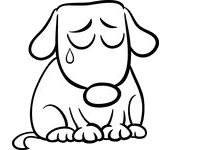
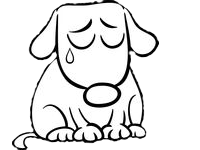
unrecoverable.html: some typos fixed. add saddy dog

diff --git a/agility/console/unrecoverable.html b/agility/console/unrecoverable.html
@@ -1,33 +1,53 @@
-<p>AgilityContest no puede ejecutarse<br/>
-    Posibles Motivos:</p>
-<ul>
-    <li> El servidor de base de datos no está activo</li>
-    <li> El firewall está bloqueando acceso al puerto local 3306</li>
+<h2>AgilityContest no puede ejecutarse</h2>
+<div style="float:right;width:30%">
+    <img src="/agility/images/sad_dog.png" alt="sad_dog"/>
+</div>
+<h3>Posibles Motivos:</h3>
+<ol>
+    <li> El servidor de base de datos no está activo
+        <ul>
+            <li>
+                En equipos lentos, o con poca memoria, el servidor de bases de datos<br/>
+                puede tardar más tiempo de lo normal en arrancar.
+            </li>
+        </ul>
+    </li>
+    <li> El firewall está bloqueando acceso al puerto local 3306.
+        <ul>
+            <li>Compruebe que en la barra de tareas no tiene ningún aviso de seguridad.</li>
+            <li>Compruebe asímismo que en el escritorio no hay ninguna ventana pidiendo<br/>
+            permiso para ejecutar algún programa.</li>
+        </ul>
+    </li>
     <li> La base de datos está corrompida. Posibles causas:<br/>
     <ul>
-        <li>Errores de tiempos de conexión ( equipo demasiado lento o firewall inspeccionando tráfico de red )</li>
-        <li>Apagado accidental del equipo con AgilityContest en funcionamiento</li>
-        <li>Carpetas del servidor de bases de datos borradas o modificadas accidentalmente</li>
+        <li>Errores de tiempos de conexión ( equipo demasiado lento o firewall inspeccionando tráfico de red ).</li>
+        <li>Apagado accidental del equipo con AgilityContest en funcionamiento.</li>
+        <li>Carpetas del servidor de bases de datos borradas o modificadas accidentalmente.</li>
+        <li>Version demasiado antigua de la base de datos que el programa no puede actualizar.</li>
     </ul>
     </li>
-</ul>
+</ol>
 <p>
-la aplicación no puede continuar mientras el servidor de bases de datos no esté activo y accesible
+La aplicación no puede continuar mientras el servidor de bases de datos no esté activo y accesible.
 </p>
-<p>
-Procedimiento a seguir:
-</p>
+<h3>Procedimiento a seguir:</h3>
 <ul>
-    <li>Eliminar bloqueos del antivirus: En el caso de <em>Avast o Esset</em>, es incluso preferible <br/>
-        desinstalar totalmente dicho programa, dejando como único antivirus <em>"Windows Defender"</em></li>
-    <li>Recuperar la última copia de seguridad de la capeta <em>c:\AgilityContest\logs</em> . <br/>
+    <li>Por si se tratara de un problema de tiempo de arranque pruebe a esperar unos segundos y<br/>
+        recargar nuevamente la página web pulsando <strong>F5</strong>.</li>
+    <li>Elimine bloqueos del antivirus: En el caso de <em>Avast o Esset</em>, es incluso preferible <br/>
+        desinstalar totalmente dicho programa, dejando como único antivirus <em>"Windows Defender"</em>.</li>
+    <li>Recupere la última copia de seguridad de la capeta <strong>c:\AgilityContest\logs</strong>. <br/>
         Las copias de seguridad son ficheros con el nombre <em>"agility-YYYYMMDD_hhmm.sql"</em><br/>
-        siendo YYYYMMDD_hhmm la fecha en que se realizó dicha copia de seguridad</li>
-    <li>Reinstalar desde cero la aplicación</li>
-    <li>Reiniciar la aplicación una vez reinstalada y recuperar el contenido de la base de datos</li>
+        siendo YYYYMMDD_hhmm la fecha en que se realizó dicha copia de seguridad.</li>
+    <li>Reinstale desde cero la aplicación. La última versión está siempre disponible en
+        <a href="https://www.agilitycontest.es/downloads" style="color:#fff;">https://wwww.agilitycontest.es/downloads</a>.</li>
+    <li>Reinice la aplicación una vez reinstalada y recuperar el contenido de la base de datos.</li>
     <li> En el caso de que el operador tenga conocimientos de mysql puede intentar utilizar <br/>
         las herramientas de recuperación del servidor de bases de datos. <br/>
-        En caso de no tener éxito tendrá que proceder a la reinstalación</li>
+        Esto puede ser necesario en el caso de que la versión anteriormente instalada de AgilityContest,<br/>
+        o la copia de la base de datos de AgilityContest fueran demasiado antiguas.<br/>
+        En caso de no tener éxito tendrá que proceder a la reinstalación.</li>
 </ul>
 
 </p>
